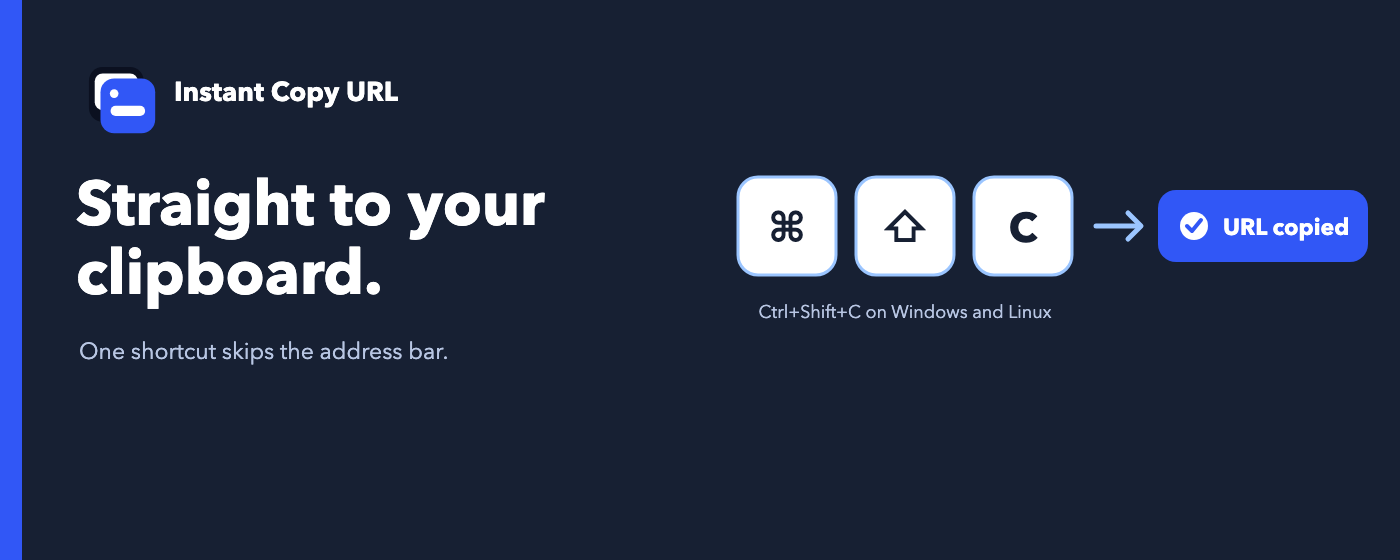
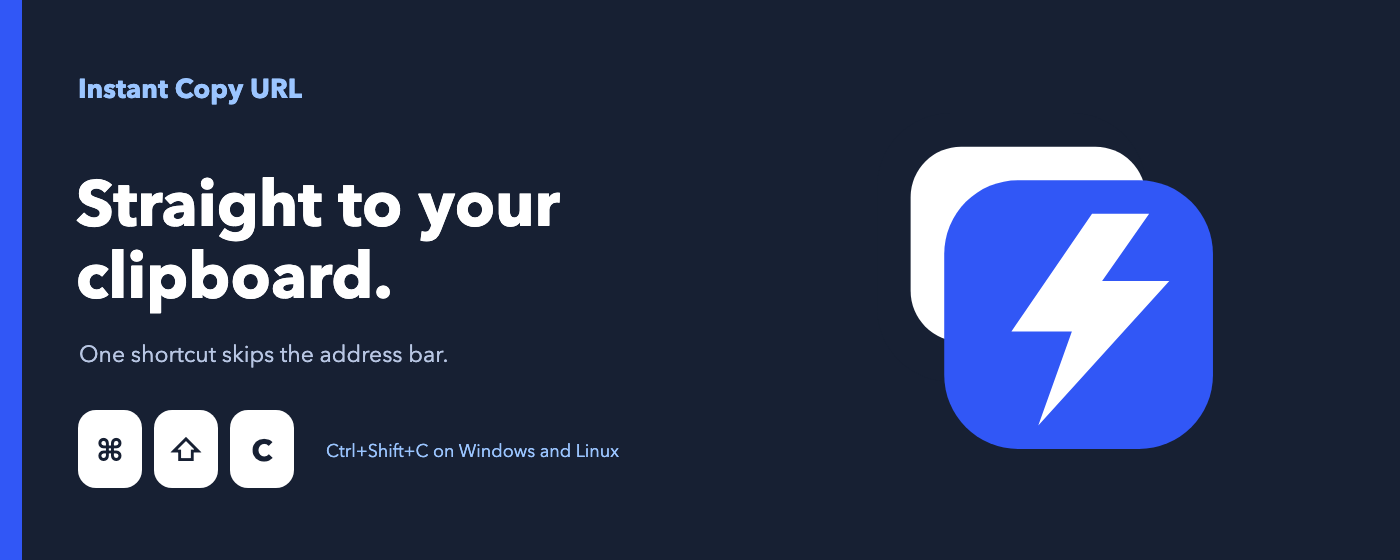
Ship lightning branding and updated store assets

diff --git a/toast.js b/toast.js
@@ -35,16 +35,20 @@ style.textContent = `
       copy-url-toast-out 180ms ease-in 4000ms forwards;
   }
 
-  .check {
-    display: grid;
-    width: 22px;
-    height: 22px;
-    place-items: center;
-    color: #0b57d0;
+  .bolt {
+    width: 20px;
+    height: 24px;
+    flex: 0 0 auto;
     background: #ffffff;
-    border-radius: 50%;
-    font-size: 14px;
-    line-height: 1;
+    clip-path: polygon(
+      60% 0,
+      12% 58%,
+      45% 58%,
+      27% 100%,
+      90% 40%,
+      57% 40%,
+      79% 0
+    );
   }
 
   .close {
@@ -93,10 +97,9 @@ style.textContent = `
 const toast = document.createElement("div");
 toast.className = "toast";
 
-const check = document.createElement("span");
-check.className = "check";
-check.setAttribute("aria-hidden", "true");
-check.textContent = "✓";
+const bolt = document.createElement("span");
+bolt.className = "bolt";
+bolt.setAttribute("aria-hidden", "true");
 
 const message = document.createElement("span");
 message.setAttribute("role", "status");
@@ -109,7 +112,7 @@ close.type = "button";
 close.setAttribute("aria-label", "Dismiss copied message");
 close.textContent = "×";
 
-toast.append(check, message, close);
+toast.append(bolt, message, close);
 shadow.append(style, toast);
 document.documentElement.append(host);
 

diff --git a/welcome.html b/welcome.html
@@ -15,7 +15,9 @@
         </div>
         <div class="shortcut-keys">
           <div class="keys" aria-label="Command Shift C">
-            <kbd>⌘⇧C</kbd>
+            <kbd>⌘</kbd>
+            <kbd>⇧</kbd>
+            <kbd>C</kbd>
           </div>
           <p class="alternate">Ctrl+Shift+C on Windows and Linux</p>
         </div>
@@ -36,8 +38,8 @@
           <li>Open Chrome’s extension shortcut settings.</li>
           <li>Find <strong>Instant Copy URL</strong> and click the pencil.</li>
           <li>
-            Press <kbd>⌘⇧C</kbd> on macOS or <kbd>Ctrl+Shift+C</kbd> elsewhere,
-            and leave it set to <strong>In Chrome</strong>.
+            Press the shortcut shown on the left and leave it set to
+            <strong>In Chrome</strong>.
           </li>
         </ol>
 

diff --git a/welcome.css b/welcome.css
@@ -56,7 +56,8 @@ main {
 }
 
 .keys {
-  display: block;
+  display: flex;
+  gap: 10px;
 }
 
 .shortcut-keys {
@@ -67,11 +68,11 @@ main {
 
 .keys kbd {
   display: inline-grid;
-  min-width: 190px;
-  height: 88px;
+  width: 58px;
+  height: 72px;
   place-items: center;
-  padding: 0 28px;
-  font: 700 38px/1 ui-sans-serif, -apple-system, BlinkMacSystemFont, sans-serif;
+  padding: 0;
+  font: 700 30px/1 ui-sans-serif, -apple-system, BlinkMacSystemFont, sans-serif;
   color: #172033;
   background: #ffffff;
   border: 1px solid #dfe3ec;
@@ -147,15 +148,6 @@ li {
 
 li + li {
   margin-top: 9px;
-}
-
-li kbd {
-  margin-left: 3px;
-  padding: 2px 6px;
-  background: #f1f3f4;
-  border: 1px solid #d5d9df;
-  border-radius: 4px;
-  font: inherit;
 }
 
 button {
